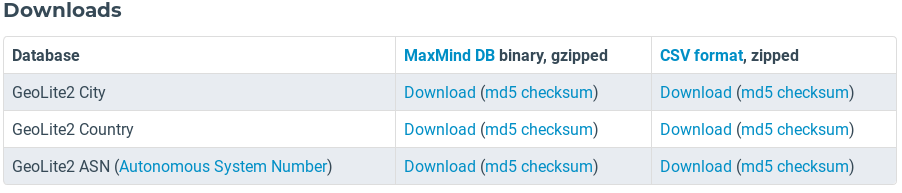
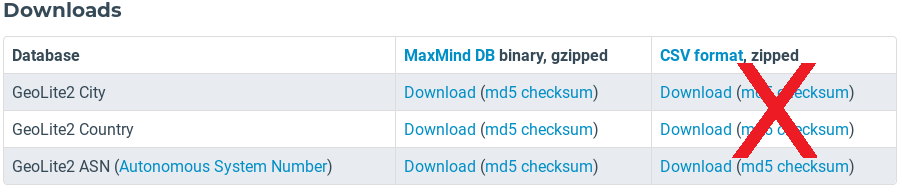
added some additional items to the geoip docs

Changed region(s): [[0.8071, 0.3109, 0.9313, 0.8394]]

diff --git a/search/geoip/geoip.md b/search/geoip/geoip.md
@@ -4,9 +4,11 @@ The geoip module uses [MaxMind](https://maxmind.com/) GeoIP databases to extract
 
 ### Setting Up Databases
 
-Before using the geoip module, you must install [resources](#!resources/resources.md) containing the MaxMind databases. You can either [download the free, limited databases](https://dev.maxmind.com/geoip/geoip2/geolite2/) or purchase their enterprise versions. We recommend installing both the City and ASN databases. On the website, select the MaxMind DB versions as shown below and unpack the resulting tar files to find the requisite files (GeoLite2-City.mmdb and GeoLite2-ASN.mmdb)
+Before using the geoip module, you must install [resources](#!resources/resources.md) containing the MaxMind databases. You can either [download the free, limited databases](https://dev.maxmind.com/geoip/geoip2/geolite2/) or purchase their enterprise versions. We recommend installing both the City and ASN databases. On the website, select the MaxMind DB versions as shown below and unpack the resulting tar files to find the requisite files (GeoLite2-City.mmdb and GeoLite2-ASN.mmdb).
 
-![](download.png)
+Note: Make sure you download the binary version and extract the .mmdb file from tar.gz file.  Gravwell uses the native MaxmindDB format to ensure great throughput.
+
+[![Maxmind Download](download.png "Example download options")](https://dev.maxmind.com/geoip/geoip2/geolite2/)
 
 By default, the geoip module expects the MaxMind "city" database (GeoLite2-City.mmdb) to be in a resource named "maxmind". This will allow you to do GeoIP extractions without specifying the resource name explicitly.
 
